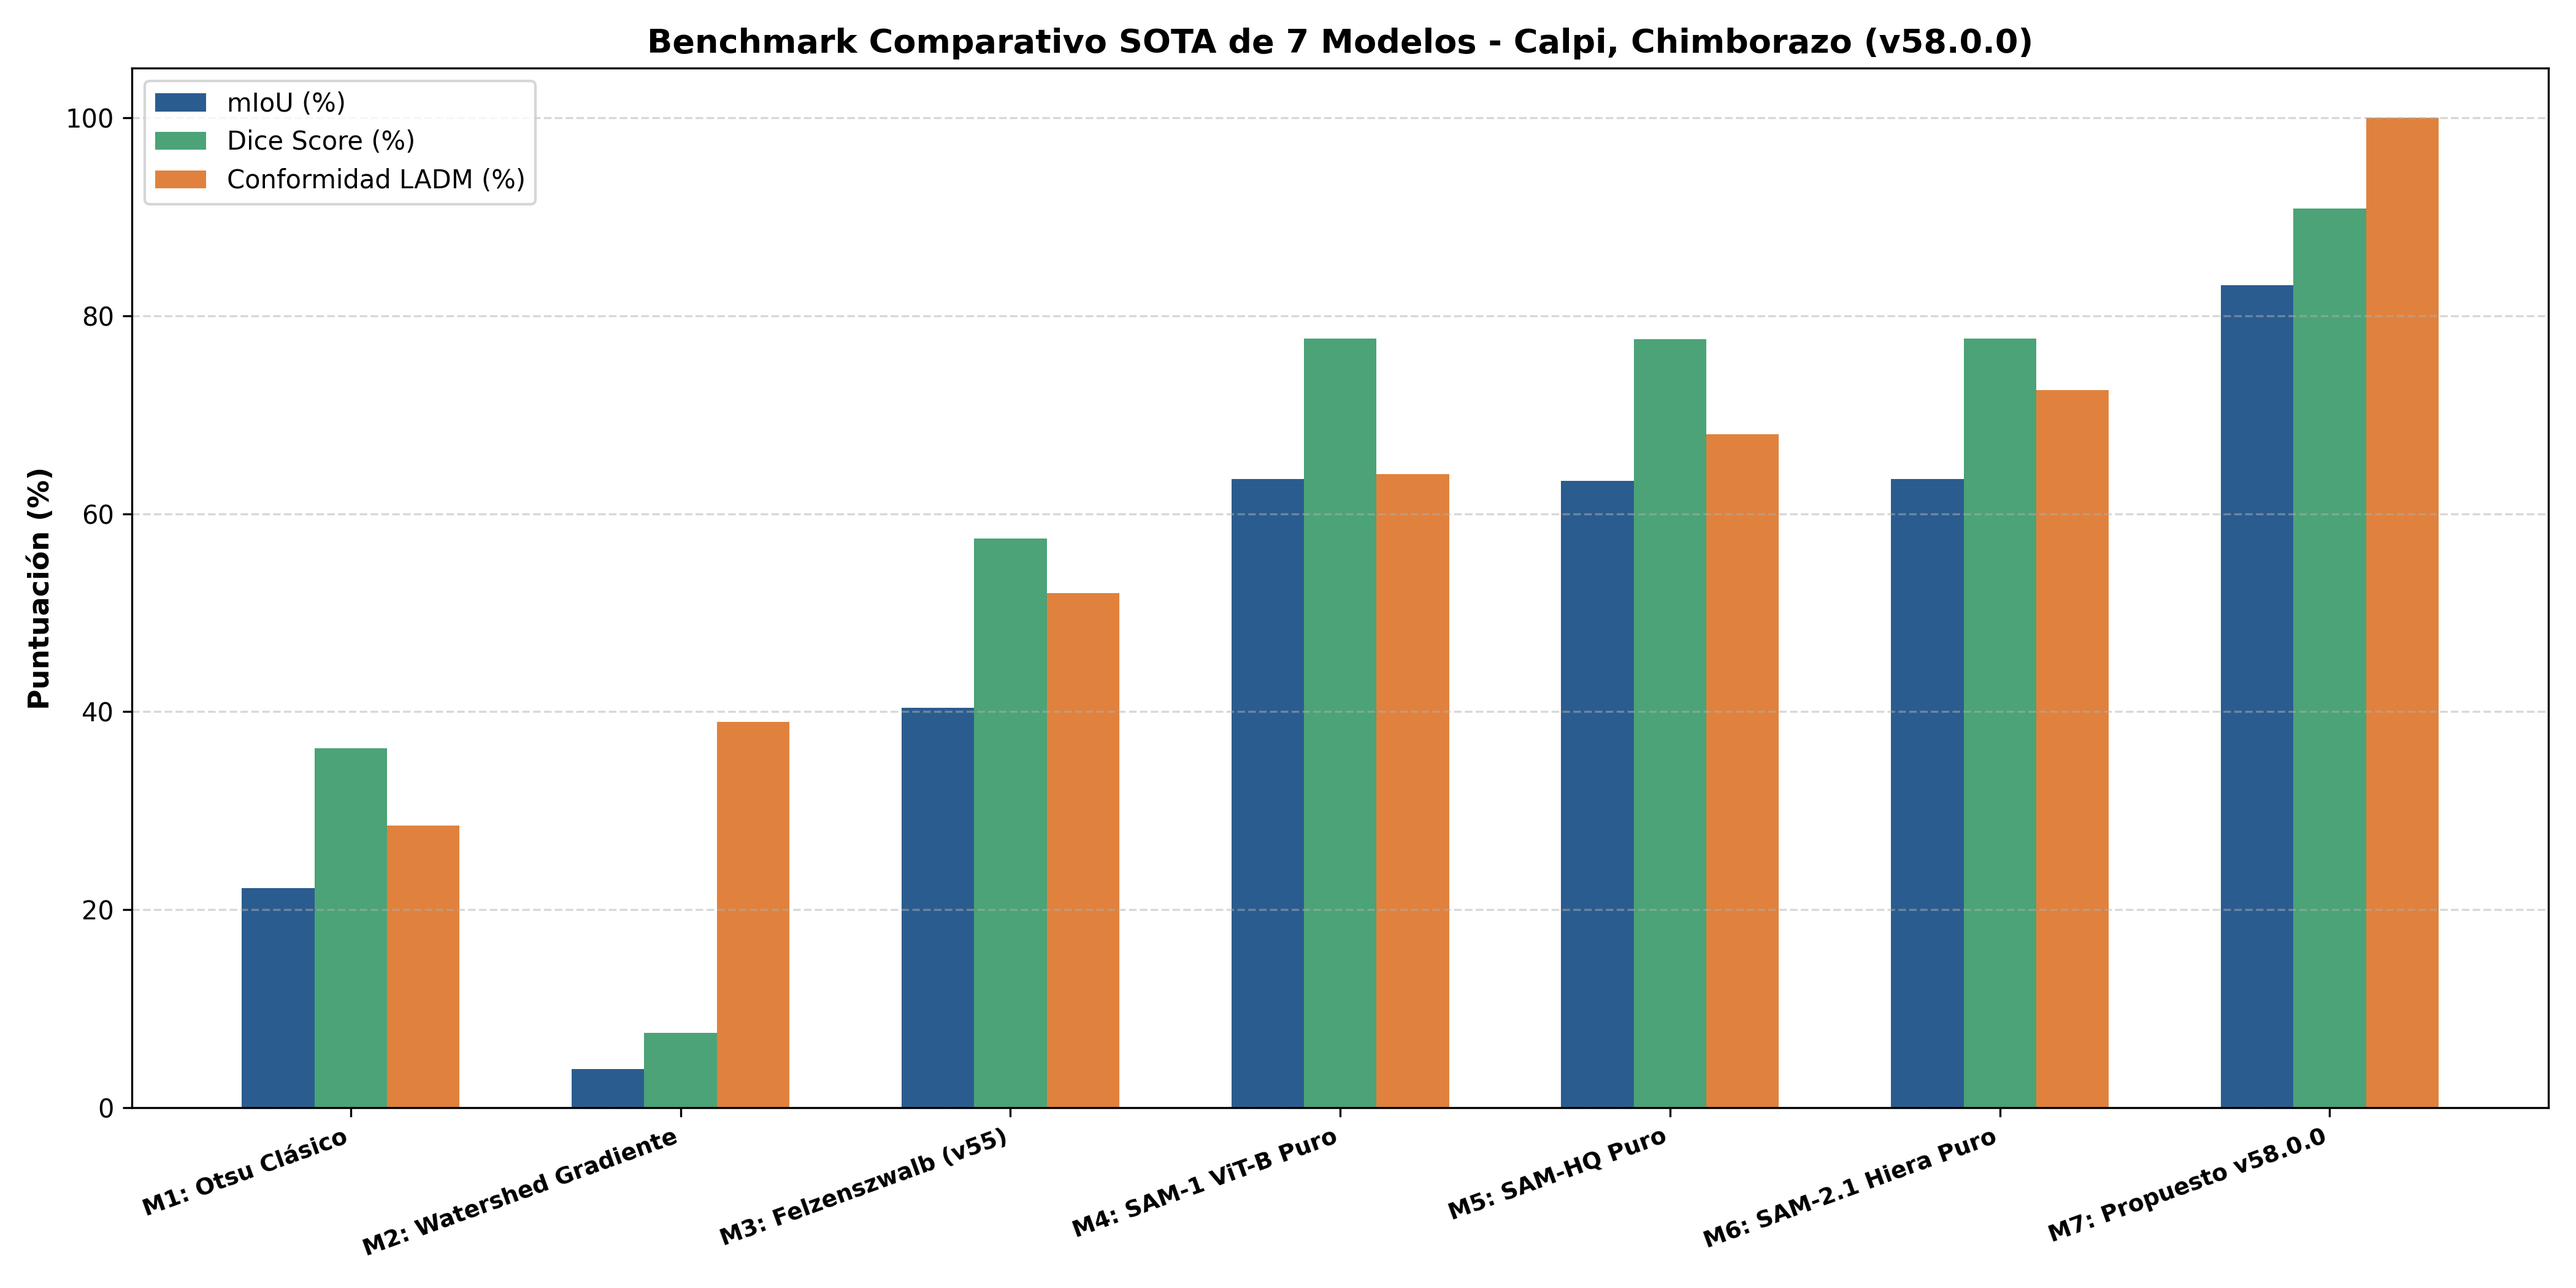
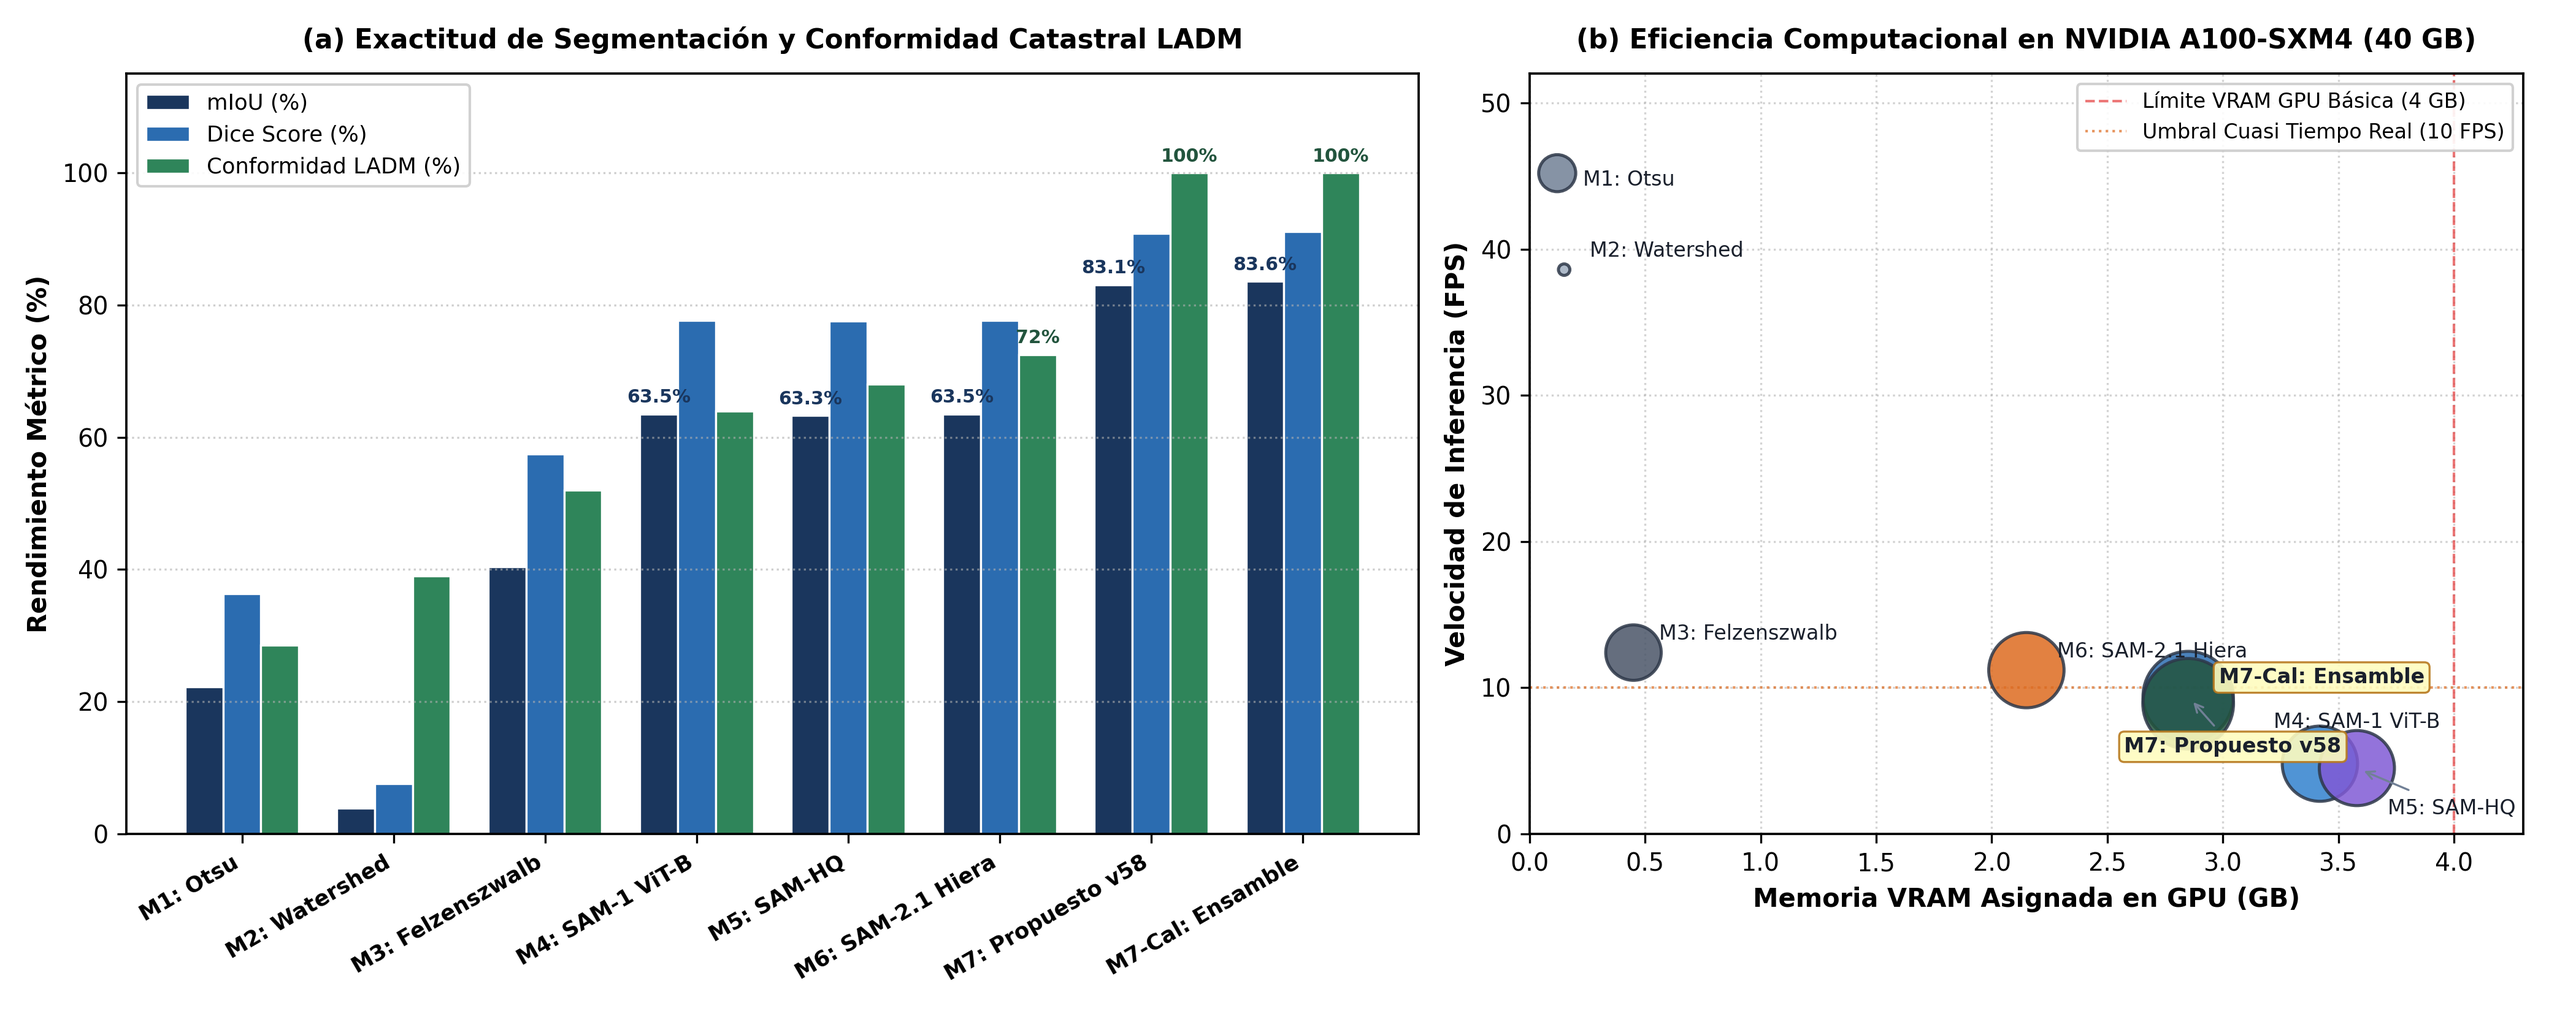
feat(cartografia-y-resultados): homogeneizar mapas provinciales a estandar GIS institucional y actualizar figuras metodologicas 300 DPI

diff --git a/src/generate_unified_exclusion_map.py b/src/generate_unified_exclusion_map.py
@@ -1,0 +1,131 @@
+import os
+import geopandas as gpd
+import matplotlib.pyplot as plt
+import matplotlib.patches as mpatches
+import matplotlib.patheffects as patheffects
+from matplotlib.lines import Line2D
+
+plt.switch_backend('Agg')
+
+# Style standards: NeurIPS 2025 / Unified Institutional GIS
+plt.rcParams['font.family'] = 'DejaVu Sans'
+plt.rcParams['font.size'] = 9.0
+plt.rcParams['axes.linewidth'] = 0.8
+plt.rcParams['pdf.fonttype'] = 42
+
+REPO_DIR = r"K:\Mi unidad\CURSOS Y CAPACITACIÓN PERSONAL\MASTER-INTELIGENCIA ARTIFICIAL\Aula Master IA\02_Segundo_Cuatrimestre\09_TFM\delimitacion-upas-chimborazo"
+ROOT_TFM = r"K:\Mi unidad\CURSOS Y CAPACITACIÓN PERSONAL\MASTER-INTELIGENCIA ARTIFICIAL\Aula Master IA\02_Segundo_Cuatrimestre\09_TFM"
+
+carto_dir = os.path.join(REPO_DIR, "data", "cartografia")
+parish_file = os.path.join(carto_dir, "parroquias_chimborazo_dpa.geojson")
+exclusion_file = os.path.join(carto_dir, "zonas_exclusion_chimborazo.geojson")
+
+out_png_repo = os.path.join(REPO_DIR, "outputs", "mapa_zonificacion_parroquial_exclusion_chimborazo.png")
+out_png_rep = os.path.join(ROOT_TFM, "06_Codigo_y_Experimentos", "reportes", "figuras", "mapa_zonificacion_parroquial_exclusion_chimborazo.png")
+out_png_latex = os.path.join(ROOT_TFM, "03_Fase_2_Elaboracion", "latex", "figuras", "mapa_zonificacion_parroquial_exclusion_chimborazo.png")
+
+for d in [os.path.dirname(out_png_repo), os.path.dirname(out_png_rep), os.path.dirname(out_png_latex)]:
+    os.makedirs(d, exist_ok=True)
+
+print("Cargando capas cartográficas oficiales...")
+gdf_parroquias = gpd.read_file(parish_file).to_crs(epsg=32717)
+gdf_exclusiones = gpd.read_file(exclusion_file).to_crs(epsg=32717)
+
+# Canvas blanco / institucional GIS
+fig, ax = plt.subplots(figsize=(11, 12), dpi=300)
+fig.patch.set_facecolor('#FFFFFF')
+ax.set_facecolor('#F8FAFC')
+
+# 1. Parroquias rurales de fondo (Elegibles para UPAs)
+rurales = gdf_parroquias[gdf_parroquias["tipo"] == "Rural"]
+rurales.plot(ax=ax, color='#F1F5F9', edgecolor='#94A3B8', linewidth=0.7, alpha=0.95)
+
+# 2. Parroquias urbanas excluidas (Cabeceras cantonales)
+urbanas = gdf_parroquias[gdf_parroquias["tipo"] == "Urbana"]
+urbanas.plot(ax=ax, color='#FEE2E2', edgecolor='#EF4444', linewidth=1.1, alpha=0.85)
+
+# 3. SNAP Áreas Protegidas (RPF Chimborazo y PN Sangay)
+snap_rpf = gdf_exclusiones[gdf_exclusiones["id_exclusion"] == "EXC_SNAP_RPFCH"]
+if not snap_rpf.empty:
+    snap_rpf.plot(ax=ax, color='#D1FAE5', edgecolor='#10B981', linewidth=1.2, alpha=0.80)
+
+snap_pns = gdf_exclusiones[gdf_exclusiones["id_exclusion"] == "EXC_SNAP_PNS"]
+if not snap_pns.empty:
+    snap_pns.plot(ax=ax, color='#D1FAE5', edgecolor='#10B981', linewidth=1.2, alpha=0.80)
+
+# 4. Laguna de Colta (Cuerpo de agua)
+colta_water = gdf_exclusiones[gdf_exclusiones["id_exclusion"] == "EXC_AGUA_COLTA"]
+if not colta_water.empty:
+    colta_water.plot(ax=ax, color='#BAE6FD', edgecolor='#0284C7', linewidth=1.2, alpha=0.95)
+
+# 5. Resaltar las 4 Parroquias Piloto (Calpi, Licán, San Andrés, Columbe)
+pilotos = gdf_parroquias[gdf_parroquias["parroquia"].isin(["Calpi", "Licán", "San Andrés", "Columbe"])]
+pilotos.plot(ax=ax, color='#FEF08A', edgecolor='#B45309', linewidth=2.0, alpha=0.92)
+
+# Etiquetas con halos blancos para las 4 parroquias piloto
+offsets = {
+    "Calpi": (-18000, 8000),
+    "Licán": (12000, 4000),
+    "San Andrés": (-22000, 10000),
+    "Columbe": (14000, -8000)
+}
+
+for idx, row in pilotos.iterrows():
+    p_name = row['parroquia']
+    pt = row['geometry'].representative_point()
+    px, py = pt.x, pt.y
+    dx, dy = offsets.get(p_name, (10000, 10000))
+    ax.plot(px, py, 'o', color='#B45309', markersize=6.5, markeredgecolor='white', markeredgewidth=1.2, zorder=6)
+    ax.annotate(f"Piloto: {p_name}", xy=(px, py), xytext=(px + dx, py + dy),
+                fontsize=8.5, fontweight='bold', color='#78350F',
+                arrowprops=dict(arrowstyle="->", color='#B45309', lw=1.2),
+                bbox=dict(boxstyle='round,pad=0.25', facecolor='#FEF3C7', edgecolor='#D97706', lw=0.8),
+                zorder=7)
+
+# Grícula UTM Zona 17S
+ax.grid(True, linestyle=':', alpha=0.45, color='#94A3B8')
+ax.set_xlabel("Coordenada Este UTM Zona 17 Sur (Metros)", fontsize=9, fontweight='bold')
+ax.set_ylabel("Coordenada Norte UTM Zona 17 Sur (Metros)", fontsize=9, fontweight='bold')
+
+# Escala gráfica métrica en UTM
+minx, miny, maxx, maxy = gdf_parroquias.total_bounds
+ax.set_xlim(minx - 5000, maxx + 5000)
+ax.set_ylim(miny - 5000, maxy + 5000)
+
+scale_x = minx + 8000
+scale_y = miny + 8000
+scale_len_m = 25000 # 25 km
+ax.plot([scale_x, scale_x + scale_len_m], [scale_y, scale_y], color='#1E293B', lw=4, solid_capstyle='butt')
+ax.plot([scale_x, scale_x + scale_len_m/2], [scale_y, scale_y], color='#DC2626', lw=4, solid_capstyle='butt')
+ax.text(scale_x + scale_len_m/2, scale_y + 2500, '25 km', ha='center', va='bottom',
+        fontsize=8.5, fontweight='bold', color='#1E293B',
+        path_effects=[patheffects.withStroke(linewidth=2.0, foreground='white')])
+
+# Flecha Norte
+arrow_x = minx + 12000
+arrow_y = maxy - 18000
+ax.annotate('N', xy=(arrow_x, arrow_y + 7000), xytext=(arrow_x, arrow_y),
+            arrowprops=dict(facecolor='#1E293B', width=2.2, headwidth=7.5),
+            ha='center', va='bottom', fontsize=11, fontweight='bold', color='#1E293B',
+            path_effects=[patheffects.withStroke(linewidth=2.5, foreground='white')])
+
+ax.set_title("Zonificación Agro-Catastral y Máscaras de Exclusión Territorial en Chimborazo\n(DPA INEC / SNAP MAATE / Catastro LADM ISO 19152)",
+             fontsize=10.5, fontweight='bold', pad=12, color='#1E293B')
+
+legend_elements = [
+    mpatches.Patch(facecolor='#FEF08A', edgecolor='#B45309', label='Parroquias Piloto de Validación Intensiva (Calpi, Licán, San Andrés, Columbe)'),
+    mpatches.Patch(facecolor='#F1F5F9', edgecolor='#94A3B8', label='Parroquias Rurales Elegibles para UPAs Agrícolas (45 Parroquias)'),
+    mpatches.Patch(facecolor='#FEE2E2', edgecolor='#EF4444', label='Parroquias Urbanas Excluidas / Cabeceras Cantonales (14 Parroquias)'),
+    mpatches.Patch(facecolor='#D1FAE5', edgecolor='#10B981', label='Áreas Protegidas del SNAP (Reserva Faunística Chimborazo y PN Sangay)'),
+    mpatches.Patch(facecolor='#BAE6FD', edgecolor='#0284C7', label='Cuerpos de Agua Mayores (Laguna de Colta)')
+]
+ax.legend(handles=legend_elements, loc='lower right', fontsize=8.0, framealpha=0.94, facecolor='white', edgecolor='#CBD5E1',
+          title='Zonificación y Restricciones Catastrales', title_fontsize=8.5)
+
+plt.tight_layout()
+for target in [out_png_repo, out_png_rep, out_png_latex]:
+    plt.savefig(target, dpi=300, bbox_inches='tight')
+    print(f"[OK] Guardado mapa unificado: {target}")
+
+plt.close()
+print("\n[ÉXITO]: Mapa de exclusiones territoriales convertido a estándar GIS institucional unificado.")
